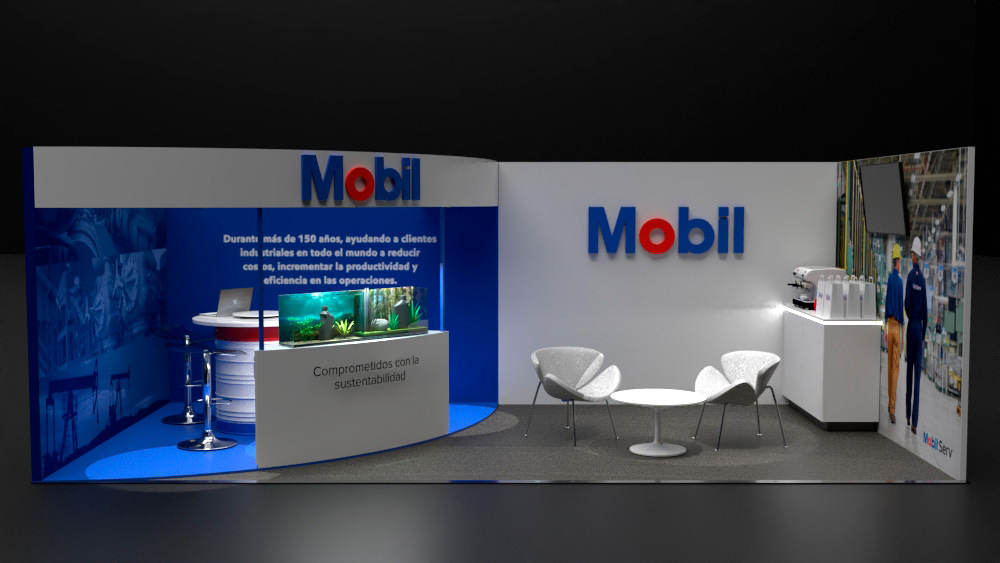
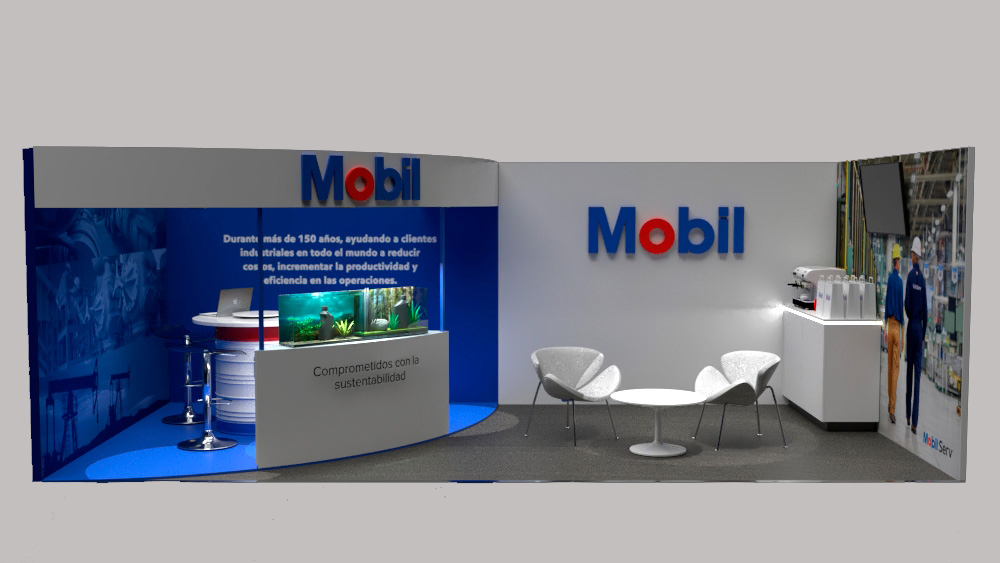
commit

diff --git a/index.html b/index.html
@@ -537,16 +537,14 @@ body {
   .image-container-2 p {
       font-size: 10px;
   }
-
-
-  }
+}
 
 .section-3-container {
     padding: 30px 100px; /* Espaciado superior e inferior */
     margin-bottom: 50px; /* Separación inferior de la sección */ 
     background-color:#6467E3;
     height: 100%; 
-    max-height: 720px;
+    max-height: 1000px;
 }
 
 .row-section-3 {
@@ -581,9 +579,8 @@ body {
   position: relative;
   width: 400px; /* Ajusta el ancho según lo necesites */
   width: 100%;   
-  overflow: hidden;
+ 
 }
-
 
 
 .image-container-3 img {
@@ -672,7 +669,7 @@ body {
       margin-bottom: 10px;
       background-color: #6467E3;
       height: 150%; 
-    min-height: 1000px;
+      min-height: 1000px;
   }
 
   .row-section-3 {
@@ -966,7 +963,7 @@ body {
       </div> 
       
         <div class="image-container-3">
-          <img src="../repositorio_landing/00 - Fotos principales/Tapa Stand Mobil TEST 2.jpg" alt="">
+          <img src="../repositorio_landing/00 - Fotos principales/Tapa Stand Mobil.jpg" alt="">
           <div class="overlay"></div>
           <div class="content">
             <span>
